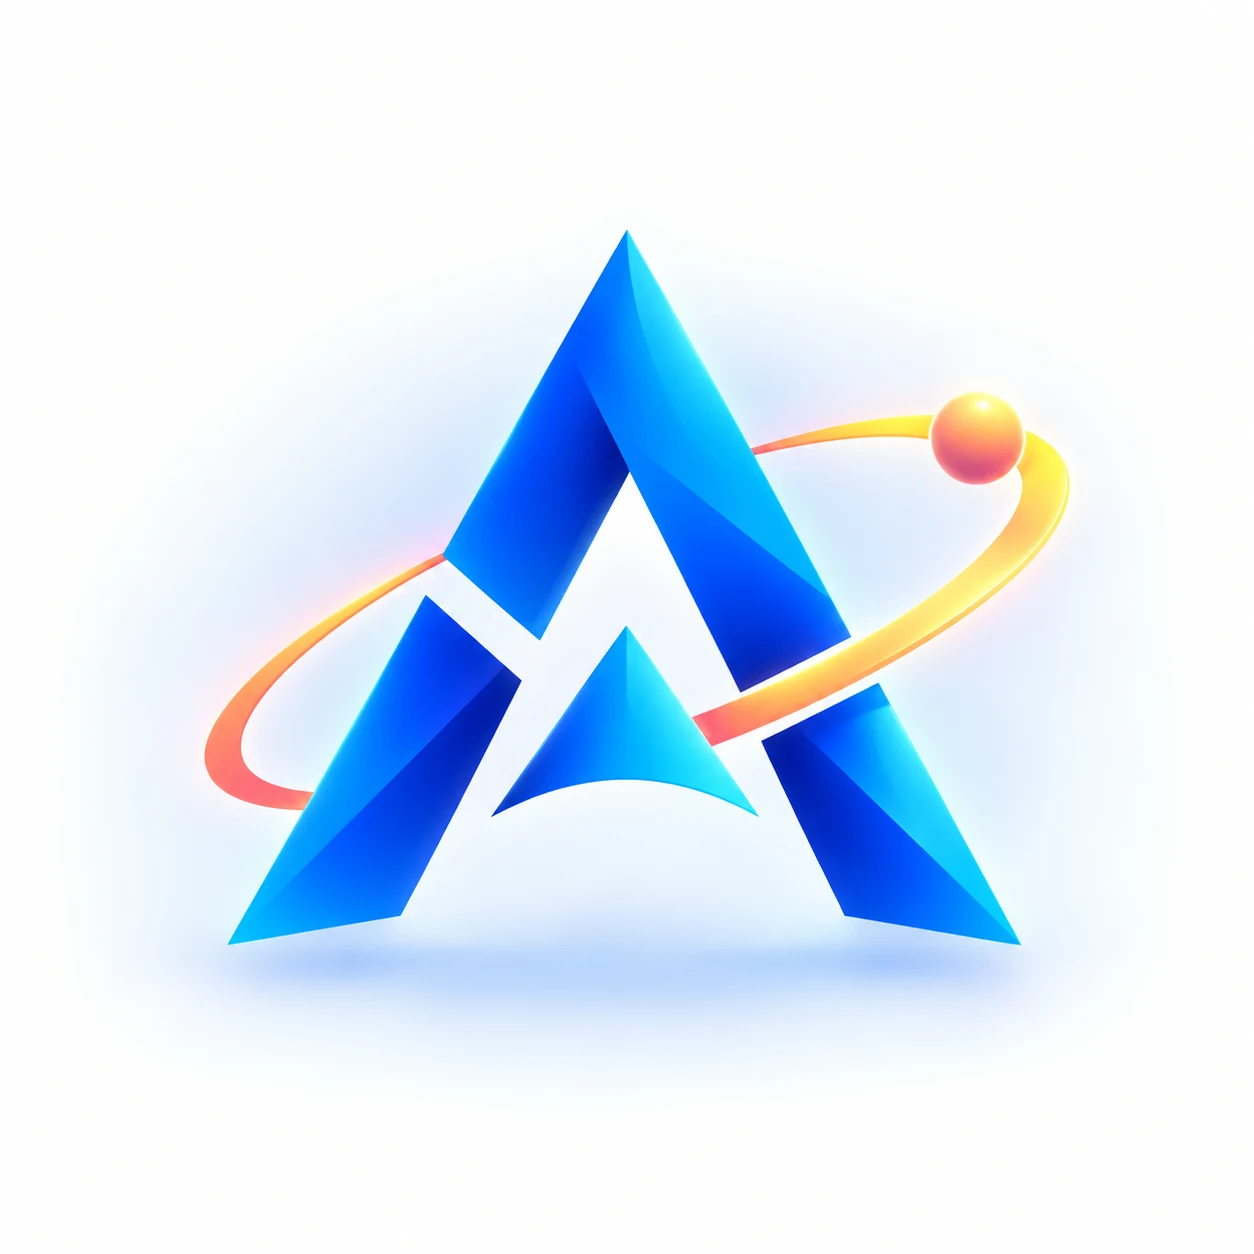
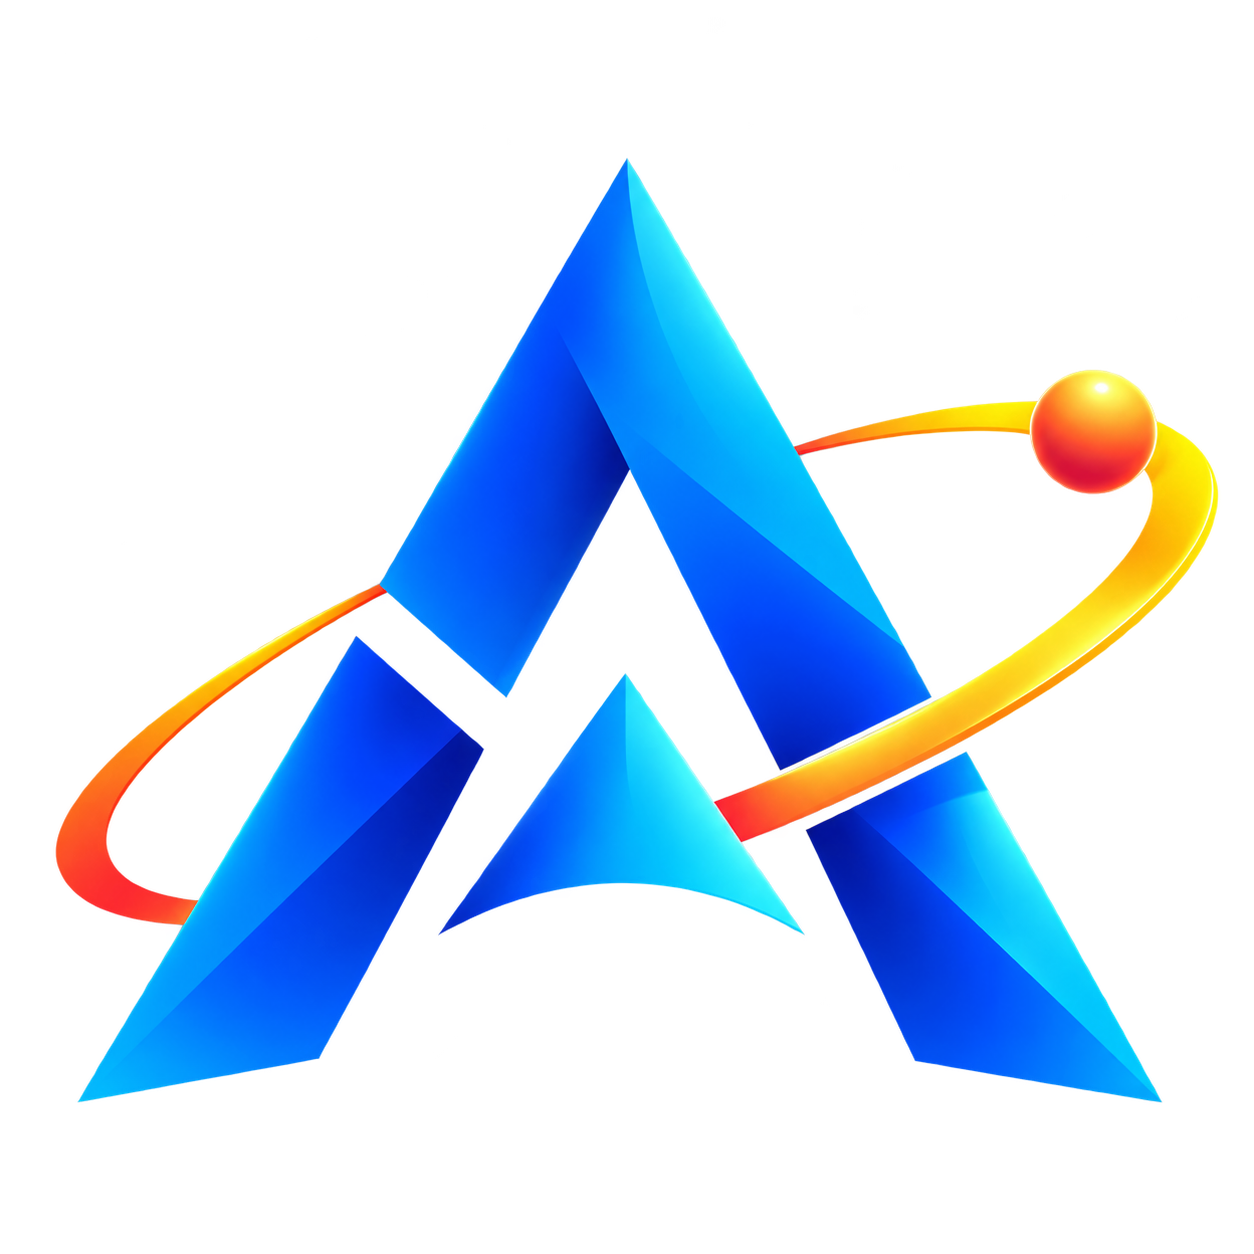
Set Apollo native identity and transparent welcome artwork

diff --git a/android/app/src/main/kotlin/com/kvoronov/apollo/MainActivity.kt b/android/app/src/main/kotlin/com/kvoronov/apollo/MainActivity.kt
@@ -1,4 +1,4 @@
-package com.example.ai_declarative_foldering_architecture
+package com.kvoronov.apollo
 
 import io.flutter.embedding.android.FlutterActivity
 
